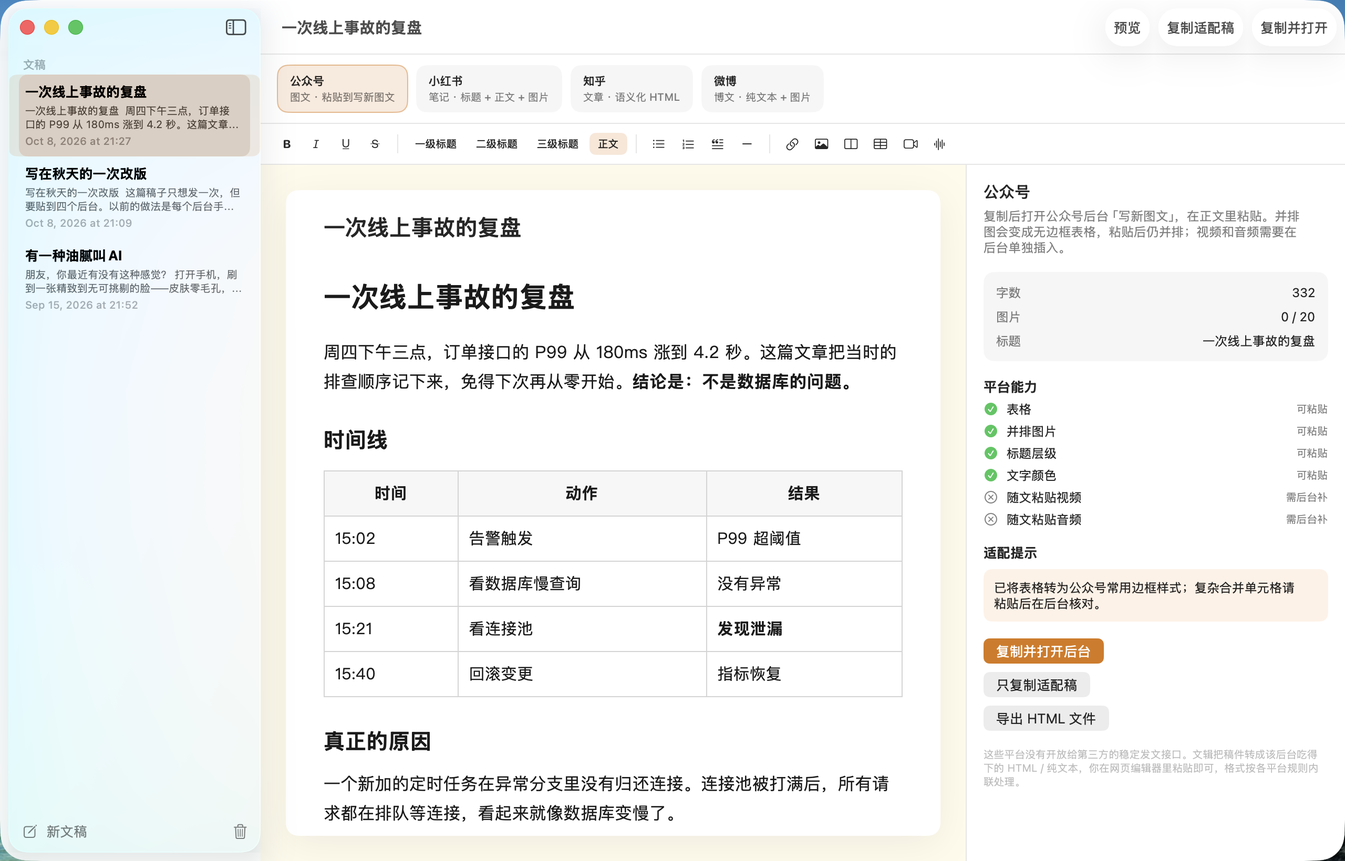
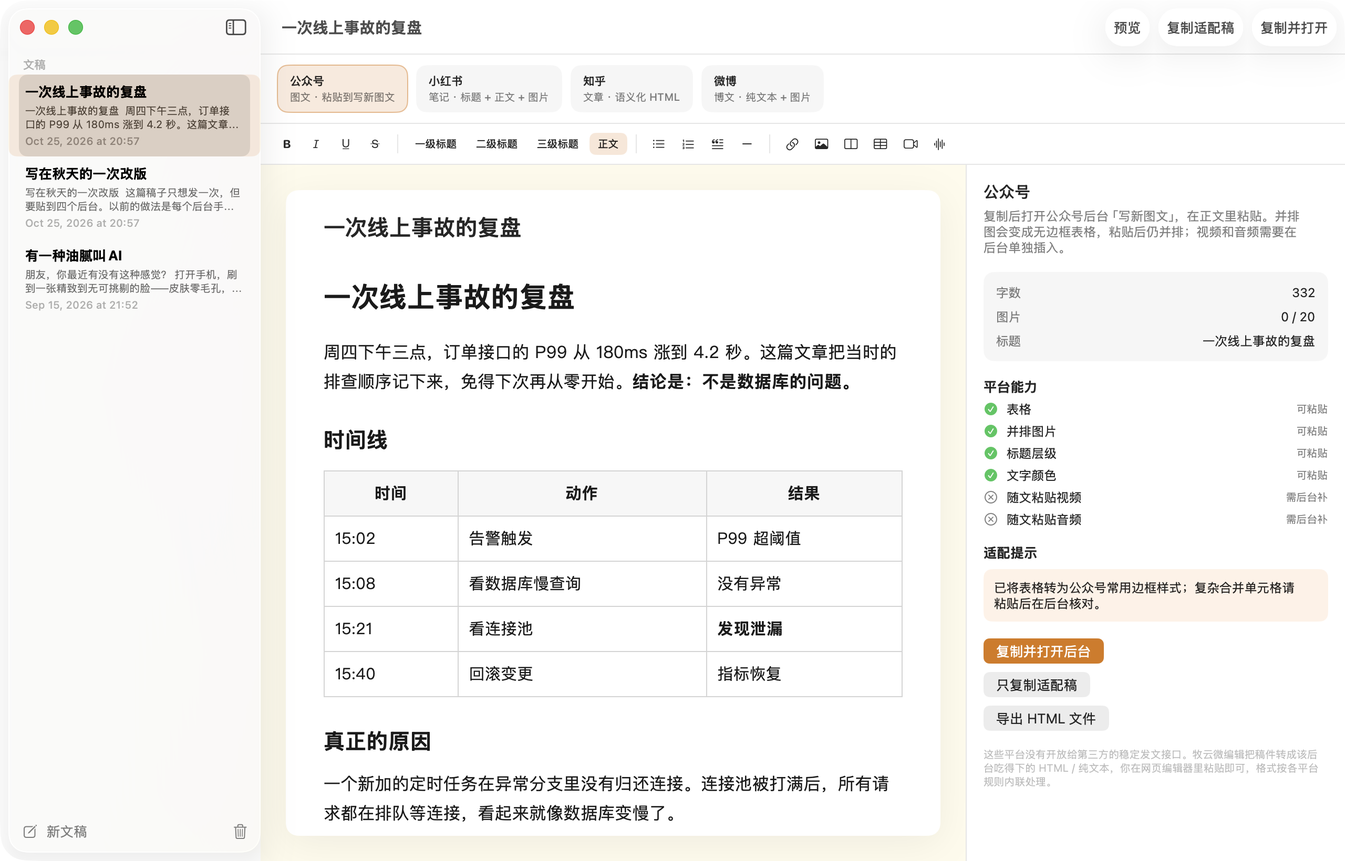
weedit：改名牧云微编辑，重拍商店截图
店名、描述正文、隐私政策、支持页里所有自称「文辑」的地方统一改成
「牧云微编辑」；沙盒容器路径跟着 bundle ID 变成
~/Library/Containers/com.gezhipeng0201.WenJi。

截图重拍：旧图右侧面板底部那行小字写着旧名。做法是在旧成品上**只替换
屏幕矩形**（794x509 @ 243,264，内框从旧图逐像素量出来），背景渐变、
标题、边框、投影全部沿用原图——像素比对确认屏幕外的显著差异为 0，
避免整张重画引入投影和标题字距的偏差。

diff --git a/weedit/privacy.html b/weedit/privacy.html
@@ -3,7 +3,7 @@
 <head>
 <meta charset="UTF-8">
 <meta name="viewport" content="width=device-width, initial-scale=1.0">
-<title>文辑 · 隐私政策 / Privacy Policy</title>
+<title>牧云微编辑 · 隐私政策 / Privacy Policy</title>
 <style>
   :root {
     color-scheme: light dark;
@@ -74,16 +74,16 @@
   <a href="#en">English</a>
 </div>
 
-<h1>文辑 · 隐私政策</h1>
+<h1>牧云微编辑 · 隐私政策</h1>
 <p class="meta">WeEdit — Privacy Policy · 最后更新 / Last updated: 2026-10-12</p>
 
 <h2 id="zh">中文</h2>
 
-<p class="lead"><strong>文辑没有服务器。</strong>稿件、图片、音视频都只写在这台电脑的沙盒容器里，没有账号，没有自建后端，不内嵌分析、追踪、崩溃上报或广告 SDK。它确实会联网，但只有三处，且每一处都不是把稿件发给我们——下面逐条写清楚。</p>
+<p class="lead"><strong>牧云微编辑没有服务器。</strong>稿件、图片、音视频都只写在这台电脑的沙盒容器里，没有账号，没有自建后端，不内嵌分析、追踪、崩溃上报或广告 SDK。它确实会联网，但只有三处，且每一处都不是把稿件发给我们——下面逐条写清楚。</p>
 
 <h3>它和网络的关系</h3>
 
-<p>文辑申请了「出站网络」这一条权限，因为文稿里可能已经有别人的图片。除此之外它不需要网络：断网也能写稿、保存、切换平台、复制适配稿。断网时看不到的只有远程图片（显示成空白），以及「打开后台」会打不开。</p>
+<p>牧云微编辑申请了「出站网络」这一条权限，因为文稿里可能已经有别人的图片。除此之外它不需要网络：断网也能写稿、保存、切换平台、复制适配稿。断网时看不到的只有远程图片（显示成空白），以及「打开后台」会打不开。</p>
 
 <p>三处会碰到网络的地方：</p>
 
@@ -97,18 +97,18 @@
   <tr>
     <td>点「复制并打开后台」</td>
     <td>对应平台的创作页</td>
-    <td>复制完成后，把平台地址交给系统默认浏览器打开。此后浏览器里发生的一切（登录、上传、平台自己的统计）由该平台和你的浏览器负责，文辑既不参与也拿不到结果。</td>
+    <td>复制完成后，把平台地址交给系统默认浏览器打开。此后浏览器里发生的一切（登录、上传、平台自己的统计）由该平台和你的浏览器负责，牧云微编辑既不参与也拿不到结果。</td>
   </tr>
   <tr>
     <td>在编辑器里点一个链接</td>
     <td>链接指向的地方</td>
-    <td>交给系统打开（通常是浏览器）。地址就是文稿里写的那个，文辑不改写也不检查它去哪。</td>
+    <td>交给系统打开（通常是浏览器）。地址就是文稿里写的那个，牧云微编辑不改写也不检查它去哪。</td>
   </tr>
 </table>
 
 <p><strong>一个必须说清楚的点：</strong>如果文稿里的图片是网上的图，打开这篇稿就会向那个图的站点暴露你的 IP 地址，以及「这台机器取过这张图」。这和本站无关，但它是真实发生的网络行为，我们不写成「完全离线」。想避免的话，把图插成本地文件即可——本地图片不走网络。</p>
 
-<p>另外，复制出去的 HTML 里，本地图片会被嵌成内联数据（data URI），而<strong>远程图片的地址会原样留着</strong>。所以粘到平台后台之后，是那边的编辑器去取这张图，不是文辑。</p>
+<p>另外，复制出去的 HTML 里，本地图片会被嵌成内联数据（data URI），而<strong>远程图片的地址会原样留着</strong>。所以粘到平台后台之后，是那边的编辑器去取这张图，不是牧云微编辑。</p>
 
 <h3>我们处理什么、放在哪</h3>
 
@@ -141,24 +141,24 @@
   </tr>
 </table>
 
-<p>文辑<strong>不使用偏好设置存储</strong>，因此没有额外的一份「使用痕迹」留在系统里；也没有安全作用域书签，所以它不会在你不用的文件上保持长期访问权——图片是拷进来的，拷完就和原文件无关了。</p>
+<p>牧云微编辑<strong>不使用偏好设置存储</strong>，因此没有额外的一份「使用痕迹」留在系统里；也没有安全作用域书签，所以它不会在你不用的文件上保持长期访问权——图片是拷进来的，拷完就和原文件无关了。</p>
 
 <h3>权限</h3>
 
-<p>文辑的沙盒授权只有三类，全部列在这里，没有别的：</p>
+<p>牧云微编辑的沙盒授权只有三类，全部列在这里，没有别的：</p>
 
 <ul>
   <li><strong>App 沙盒</strong>——限定文稿只能写进自己的容器。</li>
   <li><strong>你选定的文件（读与写）</strong>——插入图片/视频/音频、导出 HTML 时，通过系统的打开与保存面板拿文件。</li>
-  <li><strong>出站网络</strong>——只用于上面那三种情况。没有「接受入站连接」的授权，所以文辑在结构上无法作为服务器被连入。</li>
+  <li><strong>出站网络</strong>——只用于上面那三种情况。没有「接受入站连接」的授权，所以牧云微编辑在结构上无法作为服务器被连入。</li>
 </ul>
 
-<p>不申请、也不需要：辅助功能、输入监控、完全磁盘访问、屏幕录制、通知、自动化控制其他 App、通讯录、日历、位置、麦克风、摄像头。文辑不是菜单栏常驻程序，是普通窗口程序，关掉最后一扇窗口就退出。</p>
+<p>不申请、也不需要：辅助功能、输入监控、完全磁盘访问、屏幕录制、通知、自动化控制其他 App、通讯录、日历、位置、麦克风、摄像头。牧云微编辑不是菜单栏常驻程序，是普通窗口程序，关掉最后一扇窗口就退出。</p>
 
 <h3>我们不做的</h3>
 
 <ul>
-  <li>不把文稿发到任何自建服务器——文辑没有服务器</li>
+  <li>不把文稿发到任何自建服务器——牧云微编辑没有服务器</li>
   <li>不登录你的公众号、小红书、知乎、微博账号，不代你发布</li>
   <li>不接入广告、分析、崩溃上报或任何第三方 SDK</li>
   <li>不读取通讯录、位置、麦克风、摄像头</li>
@@ -168,19 +168,19 @@
 
 <h3>第三方</h3>
 
-<p>文辑没有引入任何第三方库（工程里没有包管理器依赖），也没有内置任何第三方素材——图标是用代码和矢量绘制的。除系统框架外没有别人的代码在跑。</p>
+<p>牧云微编辑没有引入任何第三方库（工程里没有包管理器依赖），也没有内置任何第三方素材——图标是用代码和矢量绘制的。除系统框架外没有别人的代码在跑。</p>
 
 <h3>数据留存与删除</h3>
 
-<p>数据一直留在这台电脑上，直到你删掉。删除方法：退出文辑，从「应用程序」里删除它，再移除 <code>~/Library/Containers/com.gezhipeng0201.WeEdit</code>（文稿就在这个容器里）。容器删掉即无残留，我们这边没有任何副本，因为没有可以存副本的地方。</p>
+<p>数据一直留在这台电脑上，直到你删掉。删除方法：退出牧云微编辑，从「应用程序」里删除它，再移除 <code>~/Library/Containers/com.gezhipeng0201.WenJi</code>（文稿就在这个容器里）。容器删掉即无残留，我们这边没有任何副本，因为没有可以存副本的地方。</p>
 
 <h3>加密与出境</h3>
 
-<p>文辑不自研加密，也不用加密做存储或同步。用到的加密只有系统在 HTTPS 里的标准实现（取远程图片、浏览器打开平台站点时）。对应的出口合规申报为「不使用非豁免加密」。</p>
+<p>牧云微编辑不自研加密，也不用加密做存储或同步。用到的加密只有系统在 HTTPS 里的标准实现（取远程图片、浏览器打开平台站点时）。对应的出口合规申报为「不使用非豁免加密」。</p>
 
 <h3>儿童</h3>
 
-<p>文辑不收集任何人的数据，自然也不收集儿童的数据。它没有账号体系，也没有可供提交信息的地方。</p>
+<p>牧云微编辑不收集任何人的数据，自然也不收集儿童的数据。它没有账号体系，也没有可供提交信息的地方。</p>
 
 <h3>这份政策和代码的对应关系</h3>
 
@@ -279,7 +279,7 @@
 
 <h3>Retention and deletion</h3>
 
-<p>Everything stays on this computer until you delete it. Quit WeEdit, remove it from Applications, then remove <code>~/Library/Containers/com.gezhipeng0201.WeEdit</code>, where the drafts live. Removing the container leaves nothing behind, and we hold no copy, because there is nowhere for us to hold one.</p>
+<p>Everything stays on this computer until you delete it. Quit WeEdit, remove it from Applications, then remove <code>~/Library/Containers/com.gezhipeng0201.WenJi</code>, where the drafts live. Removing the container leaves nothing behind, and we hold no copy, because there is nowhere for us to hold one.</p>
 
 <h3>Encryption and export</h3>
 
@@ -293,6 +293,6 @@
 
 <p>Nothing above was written from a template; each claim was checked against the project. The entitlements file contains exactly those three entries, which makes "no Accessibility" structural rather than a promise. A search across the whole project finds no preferences read or write, which is what makes "no extra usage record" true. The export-time source replacement only accepts the <code>weedit-media://</code> and <code>file:</code> prefixes and passes everything else through untouched, which makes "remote addresses are kept and fetched from their own host" a consequence of the implementation rather than a phrasing choice. Where this policy and the implementation disagree, the implementation is what ships.</p>
 
-<footer>文辑 WeEdit · 本地图文编辑器 · <a href="./support.html">帮助与支持</a></footer>
+<footer>牧云微编辑 WeEdit · 本地图文编辑器 · <a href="./support.html">帮助与支持</a></footer>
 </body>
 </html>

diff --git a/weedit/support.html b/weedit/support.html
@@ -3,7 +3,7 @@
 <head>
 <meta charset="UTF-8">
 <meta name="viewport" content="width=device-width, initial-scale=1.0">
-<title>文辑 · 帮助与支持 / Support</title>
+<title>牧云微编辑 · 帮助与支持 / Support</title>
 <style>
   :root {
     color-scheme: light dark;
@@ -77,12 +77,12 @@
   <a href="#en">English</a>
 </div>
 
-<h1>文辑 — 帮助与支持</h1>
+<h1>牧云微编辑 — 帮助与支持</h1>
 <p class="meta">WeEdit Support · 需要 macOS 14.0 或更高版本 / Requires macOS 14.0 or later</p>
 
 <h2 id="zh">中文</h2>
 
-<p class="lead">一篇稿写给公众号、小红书、知乎、微博。切换平台后按对方的规则改成对应的 HTML 或纯文本，复制，到网页后台粘贴。文辑不登录这些平台的账号，也不代你发布。</p>
+<p class="lead">一篇稿写给公众号、小红书、知乎、微博。切换平台后按对方的规则改成对应的 HTML 或纯文本，复制，到网页后台粘贴。牧云微编辑不登录这些平台的账号，也不代你发布。</p>
 
 <h3>怎么用</h3>
 
@@ -97,7 +97,7 @@
 
 <h3>四个平台的规则不一样</h3>
 
-<p>下面这张表是各平台的实际差异，不是宣传话术。到达上限之前文辑就会提示，不用等粘完才发现被截断。</p>
+<p>下面这张表是各平台的实际差异，不是宣传话术。到达上限之前牧云微编辑就会提示，不用等粘完才发现被截断。</p>
 
 <table>
   <tr><th>平台</th><th>标题</th><th>正文</th><th>图片</th><th>标题层级</th><th>表格</th><th>正文并排图</th><th>文字颜色</th></tr>
@@ -125,27 +125,27 @@
 
 <div class="faq">
 <strong>为什么不能一键发布？</strong>
-<p>这些平台没有给第三方 App 用的稳定发文接口。文辑不登录你的账号、不代发，换来的是格式由你自己控制、稿件不经过我们的服务器。省下的是重新排版的时间，不是发布的时间。</p>
+<p>这些平台没有给第三方 App 用的稳定发文接口。牧云微编辑不登录你的账号、不代发，换来的是格式由你自己控制、稿件不经过我们的服务器。省下的是重新排版的时间，不是发布的时间。</p>
 </div>
 
 <div class="faq">
 <strong>粘过去图片不见了或变成红叉？</strong>
-<p>请用工具栏的「复制适配稿」，不要只在编辑区里手工选中再复制。文辑复制时会把本地图片嵌进 HTML 里一起带走，这是为了绕开平台对外链图片的拦截；手工选中复制拿不到这一步。小红书和微博还会把图片作为独立的一项放进剪贴板，用来配合它们各自的图片上传框。</p>
+<p>请用工具栏的「复制适配稿」，不要只在编辑区里手工选中再复制。牧云微编辑复制时会把本地图片嵌进 HTML 里一起带走，这是为了绕开平台对外链图片的拦截；手工选中复制拿不到这一步。小红书和微博还会把图片作为独立的一项放进剪贴板，用来配合它们各自的图片上传框。</p>
 </div>
 
 <div class="faq">
 <strong>表格和并排图为什么在小红书、微博没了？</strong>
-<p>因为那两个平台根本不接受表格。文辑不会假装能带过去：表格会被转成纯文字，并排图会拆成逐张，并在提示里告诉你发生了什么。</p>
+<p>因为那两个平台根本不接受表格。牧云微编辑不会假装能带过去：表格会被转成纯文字，并排图会拆成逐张，并在提示里告诉你发生了什么。</p>
 </div>
 
 <div class="faq">
 <strong>视频和音频为什么只是一块说明？</strong>
-<p>这四个平台都不接受随正文粘贴的视频文件，音频更是完全不支持。文辑在这里写一块说明文字，是因为如果做成空的播放器占位，粘贴过去通常就是一块裂图，说明块至少告诉读的人这里本来有什么。</p>
+<p>这四个平台都不接受随正文粘贴的视频文件，音频更是完全不支持。牧云微编辑在这里写一块说明文字，是因为如果做成空的播放器占位，粘贴过去通常就是一块裂图，说明块至少告诉读的人这里本来有什么。</p>
 </div>
 
 <div class="faq">
 <strong>从公众号复制一篇文章粘进来，段落挤在一起了？</strong>
-<p>已知问题。公众号的正文大量使用 <code>section</code> 包段落，而文辑解析 HTML 用的系统组件不认这个标签，会把容器拆掉，里面的文字并到一起。同一条也影响从别的富文本编辑器粘复杂结构。正在考虑怎么修。</p>
+<p>已知问题。公众号的正文大量使用 <code>section</code> 包段落，而牧云微编辑解析 HTML 用的系统组件不认这个标签，会把容器拆掉，里面的文字并到一起。同一条也影响从别的富文本编辑器粘复杂结构。正在考虑怎么修。</p>
 </div>
 
 <div class="faq">
@@ -160,12 +160,12 @@
 
 <div class="faq">
 <strong>想彻底删掉？</strong>
-<p>退出文辑，从「应用程序」删除它，再移除 <code>~/Library/Containers/com.gezhipeng0201.WeEdit</code>。稿子就在这个容器里，删掉即无残留。</p>
+<p>退出牧云微编辑，从「应用程序」删除它，再移除 <code>~/Library/Containers/com.gezhipeng0201.WenJi</code>。稿子就在这个容器里，删掉即无残留。</p>
 </div>
 
 <div class="faq">
 <strong>关掉窗口了，进程还在吗？</strong>
-<p>不在。文辑是单窗口工具，关闭最后一扇窗口时退出。它不是菜单栏常驻程序，不会留在后台。</p>
+<p>不在。牧云微编辑是单窗口工具，关闭最后一扇窗口时退出。它不是菜单栏常驻程序，不会留在后台。</p>
 </div>
 
 <div class="faq">
@@ -181,7 +181,7 @@
 
 <ul>
   <li><strong>四个后台的真机粘贴回归还没做过。</strong>格式和图片能不能顺利过，目前是按代码和逻辑测试推出来的，还没有在四个网页后台里各粘一次。这是交付前明确列出的待办，我们不想把它说成「已经验证」。</li>
-  <li><strong>输入侧是空的。</strong>不能导入 markdown、docx，也不能抓网址，稿子只能手打或从浏览器粘贴。文辑不是写作工具，是临发之前那一步的工具。</li>
+  <li><strong>输入侧是空的。</strong>不能导入 markdown、docx，也不能抓网址，稿子只能手打或从浏览器粘贴。牧云微编辑不是写作工具，是临发之前那一步的工具。</li>
   <li><strong>编辑器不是专业排版工具。</strong>它是网页里的可编辑区域，字体、行距、分页、导出 PDF 这些都不如专业写作软件，也没打算做。</li>
   <li><strong>只发一个平台的人用不上它。</strong>没有第二个平台要适配，收益就是零。这一条我们写在明面上。</li>
   <li><strong>「同一篇稿子要发多个平台」这个前提还没有被真实用户验证过。</strong>平台规则差异是代码里查得到的，但有多少人愿意为省这一步装一个 App，目前没有证据。</li>
@@ -271,7 +271,7 @@
 
 <div class="faq">
 <strong>How do I delete everything?</strong>
-<p>Quit WeEdit, remove it from Applications, then remove <code>~/Library/Containers/com.gezhipeng0201.WeEdit</code>. The drafts live in that container; removing it leaves nothing behind.</p>
+<p>Quit WeEdit, remove it from Applications, then remove <code>~/Library/Containers/com.gezhipeng0201.WenJi</code>. The drafts live in that container; removing it leaves nothing behind.</p>
 </div>
 
 <div class="faq">
@@ -302,6 +302,6 @@
 
 <p>Please open an issue in the project repository with three things: the system version, the platform you were targeting, and whether the problem is on the copying side or in the other editor. A description of the structure, such as whether the passage had a table or side-by-side images, helps a lot.</p>
 
-<footer>文辑 WeEdit · 本地图文编辑器 · <a href="./privacy.html">隐私政策 / Privacy Policy</a></footer>
+<footer>牧云微编辑 WeEdit · 本地图文编辑器 · <a href="./privacy.html">隐私政策 / Privacy Policy</a></footer>
 </body>
 </html>

diff --git a/weedit/index.html b/weedit/index.html
@@ -3,7 +3,7 @@
 <head>
 <meta charset="UTF-8">
 <meta name="viewport" content="width=device-width, initial-scale=1.0">
-<title>文辑 WeEdit</title>
+<title>牧云微编辑 WeEdit</title>
 <style>
   body {
     font-family: -apple-system, BlinkMacSystemFont, "PingFang SC", sans-serif;
@@ -14,7 +14,7 @@
 </style>
 </head>
 <body>
-<h1>文辑</h1>
+<h1>牧云微编辑</h1>
 <p>给公众号、小红书、知乎、微博用的本地图文编辑器。按平台适配复制，到后台粘贴。</p>
 <p>
   <a href="privacy.html">隐私政策</a>

diff --git a/weedit/APP_STORE_LISTING.md b/weedit/APP_STORE_LISTING.md
@@ -1,4 +1,4 @@
-# 文辑 (WeEdit) — App Store 发布素材
+# 牧云微编辑 (WeEdit) — App Store 发布素材
 
 > 直接复制粘贴到 App Store Connect。中英各一份。
 > 不要用装饰线、圆点列表、弯引号、箭头、省略号、破折号，也不要写带双斜杠协议前缀的字面量。
@@ -11,15 +11,15 @@
 | 字段 | 填什么 | 不要填 |
 |---|---|---|
 | 平台 | **macOS** | iOS |
-| 名称（主语言：简体中文） | **文辑** | 备选：稿笺、文辑笔记 |
-| 名称（English） | **WeEdit** | WeEdit Editor、文辑 WeEdit |
+| 名称（主语言：简体中文） | **牧云微编辑** | 备选：稿笺、牧云笔记 |
+| 名称（English） | **WeEdit** | WeEdit Editor、牧云微编辑 WeEdit |
 | 主要语言 | 简体中文 | — |
-| Bundle ID | `com.gezhipeng0201.WeEdit` | 任何旧 ID |
-| SKU | `weedit-20260915` | 任何曾提交过的 SKU |
+| Bundle ID | `com.gezhipeng0201.WenJi` | 任何旧 ID |
+| SKU | `wenji-20261025` | 任何曾提交过的 SKU |
 | 类别 | 效率 / Productivity | — |
 | 价格 | 待定（用户决定） | — |
 
-设备显示名（`INFOPLIST_KEY_CFBundleDisplayName`）为「文辑」。版本 `MARKETING_VERSION = 1.0`，build 1。
+设备显示名（`INFOPLIST_KEY_CFBundleDisplayName`）为「牧云微编辑」。版本 `MARKETING_VERSION = 1.0`，build 1。
 
 **命名红线：** 副标题、关键词、推广文本里不要出现访达、Finder、Mac、macOS、Apple 这类商标词。
 中文描述里出现「电脑」「本机」是安全的，出现「Mac」不是。本文件已经按这条写过一遍。
@@ -58,7 +58,7 @@ One draft for WeChat, Xiaohongshu, Zhihu and Weibo. What each editor accepts, an
 ### 简体中文
 
 ```
-文辑是一个本地图文编辑器。同一篇稿子，按公众号、小红书、知乎、微博各自的规则导出成可以粘贴的 HTML 或纯文本，你复制到对方的网页编辑器里粘贴。
+牧云微编辑是一个本地图文编辑器。同一篇稿子，按公众号、小红书、知乎、微博各自的规则导出成可以粘贴的 HTML 或纯文本，你复制到对方的网页编辑器里粘贴。
 
 【四个平台是四套独立实现】
 - 公众号：内联样式，正文版心 677 像素，一级标题按二级样式出，表格转为带边框样式，支持正文并排图
@@ -79,13 +79,13 @@ One draft for WeChat, Xiaohongshu, Zhihu and Weibo. What each editor accepts, an
 文稿与媒体存在沙盒容器里，一篇稿一个目录，正文是 JSON，图片放在旁边的 media 目录，整个目录拷走就能备份或换机器。没有账号，没有自建服务器，没有分析、追踪或广告 SDK。
 
 【联网只有三处】
-打开含远程图片的稿子时按图片原本的地址取图；点「复制并打开后台」时由系统浏览器打开平台创作页；在编辑器里点链接时交给系统打开。文辑不登录你的账号，也不代你发布。
+打开含远程图片的稿子时按图片原本的地址取图；点「复制并打开后台」时由系统浏览器打开平台创作页；在编辑器里点链接时交给系统打开。牧云微编辑不登录你的账号，也不代你发布。
 
 【它不适合谁】
 - 只发一个平台的人：没有第二个平台要适配，收益为零
 - 稿件不从这儿来的人：不能导入 markdown 或 docx，也不能抓网址，稿子只能手打或从浏览器粘贴
 - 需要严肃排版的人：编辑器是网页里的可编辑区域，字体、行距、分页、导出 PDF 都不如专业写作软件
-- 想要一键发布的人：这些平台没有给第三方用的稳定发文接口，文辑省掉的是重新排版的时间
+- 想要一键发布的人：这些平台没有给第三方用的稳定发文接口，牧云微编辑省掉的是重新排版的时间
 
 【系统要求】
 需要 macOS 14.0 或更高版本。
@@ -202,9 +202,9 @@ wechat,xiaohongshu,zhihu,weibo,editor,rich text,paste,article,table,draft,note
 | App 隐私 | **不收集数据**。不要勾联系人、位置、追踪、标识符 |
 | 出口合规 | **NO**。`INFOPLIST_KEY_ITSAppUsesNonExemptEncryption = NO` 已经写在工程里 |
 
-隐私问卷与 `privacy.html`、`PRIVACY.md` 必须一致。有一处要留意：**文辑确实会联网**
+隐私问卷与 `privacy.html`、`PRIVACY.md` 必须一致。有一处要留意：**牧云微编辑确实会联网**
 （取文稿里的远程图片、打开平台创作页），这不等于「收集数据」——图片请求发向图片自己的站点，
-文辑没有服务器可以接收任何东西。问卷里仍然选「不收集数据」。
+牧云微编辑没有服务器可以接收任何东西。问卷里仍然选「不收集数据」。
 
 **审核备注建议写明：** 本 App 是本地编辑器，没有账号系统与自建服务器，不收集任何数据。
 联网仅用于显示文稿中已存在的远程图片，以及用户主动点按后由系统浏览器打开平台创作页。

diff --git a/weedit/PRIVACY.md b/weedit/PRIVACY.md
@@ -1,4 +1,4 @@
-# 文辑 (WeEdit) — 隐私政策 / Privacy Policy
+# 牧云微编辑 (WeEdit) — 隐私政策 / Privacy Policy
 
 **最后更新 / Last updated: 2026-10-12**
 
@@ -8,7 +8,7 @@
 
 ### 总览
 
-**文辑不收集、不上传、不分享你的文稿。** 正文、图片、音视频和偏好都只在这台 Mac 的沙盒容器里处理。没有账号，没有自建服务器，不内嵌分析、追踪或广告 SDK。
+**牧云微编辑不收集、不上传、不分享你的文稿。** 正文、图片、音视频和偏好都只在这台 Mac 的沙盒容器里处理。没有账号，没有自建服务器，不内嵌分析、追踪或广告 SDK。
 
 ### 我们处理什么、在哪处理
 
@@ -37,7 +37,7 @@
 
 请求里不含你的文稿正文。可以断网写稿；只是远程图片会显示不出来，「打开后台」需要浏览器联网。
 复制出去的 HTML 里，本地图片会嵌成 data URI，**远程图片的地址会原样保留**——
-粘到平台后台之后由对方的编辑器去取，不是文辑。
+粘到平台后台之后由对方的编辑器去取，不是牧云微编辑。
 
 ### 文件访问
 
@@ -45,7 +45,7 @@
 
 ### 数据删除
 
-删除 App，并移除 `~/Library/Containers/com.gezhipeng0201.WeEdit`，即无残留。
+删除 App，并移除 `~/Library/Containers/com.gezhipeng0201.WenJi`，即无残留。
 
 ### 联系方式
 
@@ -86,7 +86,7 @@ App Sandbox. Only files you pick in Open/Save, plus the app container. No Full D
 
 ### Deletion
 
-Remove the app and `~/Library/Containers/com.gezhipeng0201.WeEdit`.
+Remove the app and `~/Library/Containers/com.gezhipeng0201.WenJi`.
 
 ### Contact
 

diff --git a/weedit/EXPORT_COMPLIANCE.md b/weedit/EXPORT_COMPLIANCE.md
@@ -1,4 +1,4 @@
-# 出口合规证明 (Export Compliance) — 文辑
+# 出口合规证明 (Export Compliance) — 牧云微编辑
 
 ## 已完成的修改
 
@@ -11,10 +11,10 @@ INFOPLIST_KEY_ITSAppUsesNonExemptEncryption = NO;
 验证：
 
 ```bash
-plutil -p "/path/to/文辑.app/Contents/Info.plist" | grep ITSApp
+plutil -p "/path/to/牧云微编辑.app/Contents/Info.plist" | grep ITSApp
 # "ITSAppUsesNonExemptEncryption" => false
 ```
 
 ## 为什么填 NO
 
-文辑没有自研加密。唯一可能用到的加密是系统 URLSession / WebKit 的标准 HTTPS（显示文稿里已有的远程图片，以及用户让系统浏览器打开平台站点）。符合豁免：(c) 苹果系统加密通信 + (d) 标准 TLS。没有 DRM、没有端到端同步、没有自研算法。
+牧云微编辑没有自研加密。唯一可能用到的加密是系统 URLSession / WebKit 的标准 HTTPS（显示文稿里已有的远程图片，以及用户让系统浏览器打开平台站点）。符合豁免：(c) 苹果系统加密通信 + (d) 标准 TLS。没有 DRM、没有端到端同步、没有自研算法。

diff --git a/weedit/README.md b/weedit/README.md
@@ -1,4 +1,4 @@
-# 文辑 — 用户说明
+# 牧云微编辑 — 用户说明
 
 本地写稿，按公众号、小红书、知乎、微博的规则复制出去粘贴。稿件只存在你这台 Mac 上。
 
@@ -9,7 +9,7 @@
 - 「复制并打开后台」：把适配过的 HTML / 纯文本放进剪贴板，并打开对应网站的编辑页
 - 视频和音频多数平台不允许随正文粘贴，会留下说明，避免到了后台变成空白
 
-这些平台没有给第三方用的稳定一键发布接口，所以文辑不登录你的账号，也不代发。
+这些平台没有给第三方用的稳定一键发布接口，所以牧云微编辑不登录你的账号，也不代发。
 
 ## 怎么用
 
@@ -27,7 +27,7 @@
 对方不提供给第三方 App 用的发文接口。打开后台粘贴是目前能保持格式的办法。
 
 **数据在哪？**  
-本机沙盒容器。删 App 并去掉 `~/Library/Containers/com.gezhipeng0201.WeEdit` 即无残留。
+本机沙盒容器。删 App 并去掉 `~/Library/Containers/com.gezhipeng0201.WenJi` 即无残留。
 
 ## FAQ (English)
 
